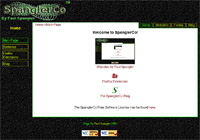
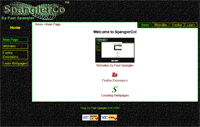
Replace blog with webpages, adjust links

diff --git a/websites.htm b/websites.htm
@@ -4,8 +4,8 @@
 <title>SpanglerCo by Paul Spangler - Websites</title>
 <meta name="Author" content="Paul Spangler" />
 <meta http-equiv="Content-Type" content="text/html; charset=ISO-8859-1" />
-<link rel="shortcut icon" href="/favicon.gif" />
-<link rel="stylesheet" type="text/css" href="/css/main.css" />
+<link rel="shortcut icon" href="favicon.gif" />
+<link rel="stylesheet" type="text/css" href="css/main.css" />
 <style type="text/css">div#content { text-align: center;color:#000000;}.down { color: #AA0000; }.constructing { color: #DDBB00; }.dropped { color: #FFFFFF; }.up { color: #00DD00; }a:link.aup { color: #00DD00; text-decoration: underline; }a:visited.aup { color: #00DD00; text-decoration: underline; }a:hover.aup { color: #00DD00; text-decoration: underline; }a:active.aup { color: #00DD00; text-decoration: underline; }img{border:0px;}
 #imageList { list-style-type: none; margin: 0px auto; padding: 0px; width: 100%; }
 #imageList li { border: 1px solid #666666; display: inline-block; margin: 10px 50px 0px 0px; vertical-align: middle; }
@@ -20,46 +20,46 @@
 </head>
 <body>
 <div id="header">
-<a href="/"><img src="/images/top.jpg" alt="SpanglerCo by Paul 
+<a href="index.htm"><img src="images/top.jpg" alt="SpanglerCo by Paul 
 Spangler" /></a>
 </div>
 <div id="topmenublock">&nbsp;</div>
 <div id="topmenu">
 <ul>
-<li><a href="/">Home</a></li>
-<li id="topCurrentItem"><a href="/websites.htm">Websites</a></li>
-<li><a href="http://firefox.spanglerco.com">Firefox</a></li>
-<li><a href="http://blog.spanglerco.com">Blog</a></li>
+<li><a href="index.htm">Home</a></li>
+<li id="topCurrentItem"><a href="websites.htm">Websites</a></li>
+<li><a href="https://addons.mozilla.org/en-US/firefox/user/paul-spangler/">Firefox</a></li>
+<li><a href="http://webpages.spanglerco.com">Learn</a></li>
 </ul>
 </div>
 <div id="sidemenu">
 <h3>Home</h3>
 <ul>
-<li><a href="/">Home</a></li>
-<li id="sideCurrentItem"><a href="/websites.htm">Websites</a></li>
-<li><a href="http://firefox.spanglerco.com">Firefox Extensions</a></li>
-<li><a href="http://blog.spanglerco.com">Blog</a></li>
+<li><a href="index.htm">Home</a></li>
+<li id="sideCurrentItem"><a href="websites.htm">Websites</a></li>
+<li><a href="https://addons.mozilla.org/en-US/firefox/user/paul-spangler/">Firefox Extensions</a></li>
+<li><a href="http://webpages.spanglerco.com">Learn Webpages</a></li>
 </ul>
 </div>
 <div id="content">
 <ul id="hierarchy">
-<li id="first"><a href="/">Home</a></li>
-<li><a href="/websites.htm">Websites</a></li>
+<li id="first"><a href="index.htm">Home</a></li>
+<li><a href="websites.htm">Websites</a></li>
 </ul>
 <h3>Websites by Paul Spangler</h3>
 <div class="center">
 <ul id="imageList">
-<li><a href="/"><img src="/images/thumb-spanglerco.jpg" alt="SpanglerCo" /></a><a class="text" href="/">SpanglerCo</a></li>
-<li><a href="http://believealbum.com"><img src="/images/thumb-believe.jpg" alt="Beli e-v-e Album" /></a><a class="text" href="http://believealbum.com">Beli e&bull;v&bull;e</a></li>
-<li><a href="http://collegiateprep.com"><img src="/images/thumb-collegiate.jpg" alt="Collegiate Prep Basketball Academy" /></a><a class="text" href="http://collegiateprep.com">Collegiate Prep Basketball Academy</a></li>
-<li><a href="http://blog.spanglerco.com"><img src="/images/thumb-blog.jpg" alt="The SpanglerCo Blog" /></a><a class="text" href="http://blog.spanglerco.com">The SpanglerCo Blog</a></li>
-</ul>
+<li><a href="index.htm"><img src="images/thumb-spanglerco.jpg" alt="SpanglerCo" /></a><a class="text" href="index.htm">SpanglerCo</a></li>
+<li><a href="http://believealbum.com"><img src="images/thumb-believe.jpg" alt="Beli e-v-e Album" /></a><a class="text" href="http://believealbum.com">Beli e&bull;v&bull;e</a></li>
+<li><a href="http://collegiateprep.com"><img src="images/thumb-collegiate.jpg" alt="Collegiate Prep Basketball Academy" /></a><a class="text" href="http://collegiateprep.com">Collegiate Prep Basketball Academy</a></li>
+<li><a href="http://webpages.spanglerco.com"><img src="images/thumb-webpages.jpg" alt="Creating Webpages" /></a><a class="text" href="http://webpages.spanglerco.com">Creating Webpages</a></li>
+</ul><br />
 </div>
 </div>
 <div id="clear"></div>
 <div id="footer">
 <ul>
-<li>Page By <a href="http://blog.spanglerco.com/contact.php">Paul Spangler</a> 2005-2008</li>
+<li>Page By <a href="https://github.com/spanglerco">Paul Spangler</a> 2005-2008</li>
 </ul>
 <ul id="valid">
 <li><a href="http://validator.w3.org/check?uri=referer" rel="external"><img src="http://www.w3.org/Icons/valid-xhtml10" alt="Valid XHTML 1.0 Strict" height="31" width="88" /></a></li>

diff --git a/index.htm b/index.htm
@@ -4,54 +4,54 @@
 <title>SpanglerCo by Paul Spangler</title>
 <meta name="Author" content="Paul Spangler" />
 <meta http-equiv="Content-Type" content="text/html; charset=ISO-8859-1" />
-<link rel="shortcut icon" href="/favicon.gif" />
-<link rel="stylesheet" type="text/css" href="/css/main.css" />
+<link rel="shortcut icon" href="favicon.gif" />
+<link rel="stylesheet" type="text/css" href="css/main.css" />
 <style type="text/css">div#content { text-align: center;color:#000000;}.down { color: #AA0000; }.constructing { color: #DDBB00; }.dropped { color: #FFFFFF; }.up { color: #00DD00; }a:link.aup { color: #00DD00; text-decoration: underline; }a:visited.aup { color: #00DD00; text-decoration: underline; }a:hover.aup { color: #00DD00; text-decoration: underline; }a:active.aup { color: #00DD00; text-decoration: underline; }img{border:0px;}</style>
 </head>
 <body>
 <div id="header">
-<a href="/"><img src="/images/top.jpg" alt="SpanglerCo by Paul 
+<a href="index.htm"><img src="images/top.jpg" alt="SpanglerCo by Paul 
 Spangler" /></a>
 </div>
 <div id="topmenublock">&nbsp;</div>
 <div id="topmenu">
 <ul>
-<li id="topCurrentItem"><a href="/">Home</a></li>
-<li><a href="/websites.htm">Websites</a></li>
-<li><a href="http://firefox.spanglerco.com">Firefox</a></li>
-<li><a href="http://blog.spanglerco.com">Blog</a></li>
+<li id="topCurrentItem"><a href="index.htm">Home</a></li>
+<li><a href="websites.htm">Websites</a></li>
+<li><a href="https://addons.mozilla.org/en-US/firefox/user/paul-spangler/">Firefox</a></li>
+<li><a href="http://webpages.spanglerco.com">Learn</a></li>
 </ul>
 </div>
 <div id="sidemenu">
 <h3>Home</h3>
 <ul>
-<li id="sideCurrentItem"><a href="/">Main Page</a></li>
-<li><a href="/websites.htm">Websites</a></li>
-<li><a href="http://firefox.spanglerco.com">Firefox Extensions</a></li>
-<li><a href="http://blog.spanglerco.com">Blog</a></li>
+<li id="sideCurrentItem"><a href="index.htm">Main Page</a></li>
+<li><a href="websites.htm">Websites</a></li>
+<li><a href="https://addons.mozilla.org/en-US/firefox/user/paul-spangler/">Firefox Extensions</a></li>
+<li><a href="http://webpages.spanglerco.com">Learn Webpages</a></li>
 </ul>
 </div>
 <div id="content">
 <ul id="hierarchy">
-<li id="first"><a href="/">Home</a></li>
-<li><a href="/">Main Page</a></li>
+<li id="first"><a href="index.htm">Home</a></li>
+<li><a href="index.htm">Main Page</a></li>
 </ul>
 <h3>Welcome to SpanglerCo!</h3>
 <div class="center">
 <div>
-<a href="/websites.htm"><img src="/images/thumb-spanglerco.jpg" alt="Websites by Paul Spangler" /><br />Websites by Paul Spangler</a></div>
+<a href="websites.htm"><img src="images/thumb-spanglerco.jpg" alt="Websites by Paul Spangler" /><br />Websites by Paul Spangler</a></div>
 <br />
 <div>
-<a href="http://firefox.spanglerco.com"><img src="/images/extended.png" alt="Firefox Extensions" /><br />Firefox Extensions</a></div>
+<a href="https://addons.mozilla.org/en-US/firefox/user/paul-spangler/"><img src="images/extended.png" alt="Firefox Extensions" /><br />Firefox Extensions</a></div>
 <br />
 <div>
-<a href="http://blog.spanglerco.com"><img src="/images/icon.png" alt="SpanglerCo Icon" /><br />The SpanglerCo Blog</a></div>
-</div><br /><br /><br />
+<a href="http://webpages.spanglerco.com"><img src="images/icon.png" alt="SpanglerCo Icon" /><br />Creating Webpages</a></div>
+</div><br />
 </div>
 <div id="clear"></div>
 <div id="footer">
 <ul>
-<li>Page By <a href="http://blog.spanglerco.com/contact.php">Paul Spangler</a> 2005-2008</li>
+<li>Page By <a href="https://github.com/spanglerco">Paul Spangler</a> 2005-2008</li>
 </ul>
 <ul id="valid">
 <li><a href="http://validator.w3.org/check?uri=referer" rel="external"><img src="http://www.w3.org/Icons/valid-xhtml10" alt="Valid XHTML 1.0 Strict" height="31" width="88" /></a></li>
